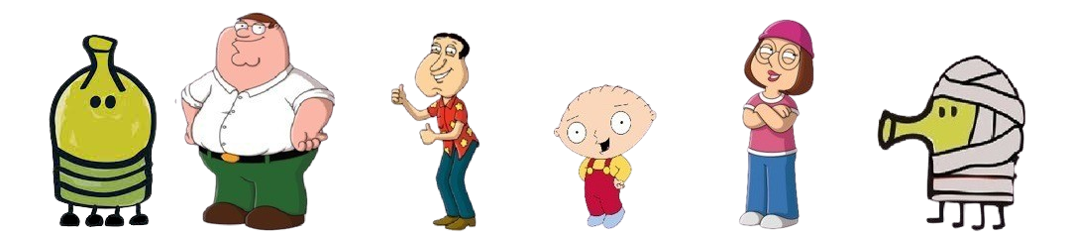
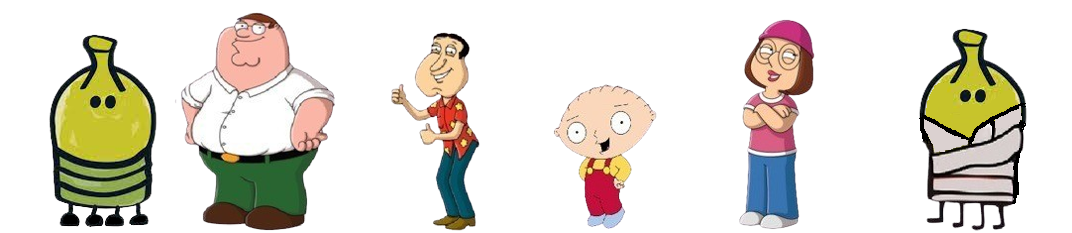
Added Pause/Play

diff --git a/Script/indexjs.js b/Script/indexjs.js
@@ -3,7 +3,10 @@ window.addEventListener('load', () => {
     const ctx = canvas.getContext('2d');
     const CANVAS_WIDTH = canvas.width = window.innerWidth;
     const CANVAS_HEIGHT = canvas.height = window.innerHeight;
-    var s=true;
+    var charChange=900;
+    var m =0;
+    var pause = false;
+    var color = "black";
     class Background{
         constructor(game){
             this.game = game;
@@ -15,6 +18,14 @@ window.addEventListener('load', () => {
         }
         update(){
             if(this.y > this.height){
+                if(game.scorept%2000 > 1000){
+                    canvas.style.backgroundColor = "#1E035E";
+                    color = "white";
+                }
+                else{
+                    canvas.style.backgroundColor = "rgb(142, 218, 250)";
+                    color = "black";
+                }
                 this.y = 0;
                 this.game.add_platforms(-this.height*2, -30-this.height);
                 this.game.change_difficulty();
@@ -24,10 +35,10 @@ window.addEventListener('load', () => {
                 }
             }
             else{
-                this.y += this.game.vy;
+                this.y += this.game.vy*0.6;
                 
                 if(this.game.vy>0){
-                    this.game.scorept += Math.floor(this.game.vy * 0.4);
+                    this.game.scorept += Math.floor(this.game.vy * 0.12);
                 }
             }
         }
@@ -36,7 +47,6 @@ window.addEventListener('load', () => {
             ctx.drawImage(this.image, this.x, this.y-this.height, this.width, this.height);
         }
     }
-    
     class Enemy{
         constructor(game){
             this.game = game;
@@ -56,7 +66,7 @@ window.addEventListener('load', () => {
         update(){
             if(this.x < 0 || this.x > this.game.width - this.width) this.vx *= -1 
             this.x += this.vx;
-            this.y += this.game.vy;
+            this.y += this.game.vy*0.1;
 
             if(this.y >= this.game.height + 2 * this.game.player.height){
                 this.audio.pause();
@@ -97,7 +107,7 @@ window.addEventListener('load', () => {
                 if(this.x < 0 || this.x > this.game.width - this.width) this.vx = -this.vx;
             }
             this.x += this.vx;
-            this.y += this.game.vy;
+            this.y += this.game.vy*0.6;
 
             if(this.y >= this.game.height + game.player.height*2){
                 this.markedForDeletion = true;
@@ -145,7 +155,6 @@ window.addEventListener('load', () => {
             this.max_vx = 5;
             this.bullets = [];
         }
-
         update(inputHandler){
             this.x +=this.vx;
             if(inputHandler.keys.includes('ArrowLeft')){
@@ -212,13 +221,17 @@ window.addEventListener('load', () => {
 
             this.bullets.forEach(bullet => bullet.update());
             this.bullets = this.bullets.filter(bullet => !bullet.markedForDeletion);
-
         }
 
         draw(context){
             this.bullets.forEach(bullet => bullet.draw(context))
-            // context.strokeRect(this.x+15, this.y, this.width-30, this.height);
-            context.drawImage(this.image, 0, 0, 173, 235, this.x, this.y, this.width, this.height);
+            // context.strokeRect(this.x+13, this.y, this.width-30, this.height);
+            if(game.scorept%charChange > charChange-2){
+                m=m+176;
+                charChange*=2;
+                if(m >= (176*6)) m=0;
+            }
+            context.drawImage(this.image, m, 0, 173, 235, this.x, this.y, this.width, this.height);
         }
 
         collision(){
@@ -293,8 +306,12 @@ window.addEventListener('load', () => {
                 if((e.key == 'ArrowLeft' || e.key == 'ArrowRight') && !this.keys.includes(e.key)){
                     this.keys.push(e.key);
                 }
-                if(e.key == 'Enter'){
-                    this.game.gameStart = true;
+                else if((e.key == 'Enter' || e.key == ' ') && game.gameOver){
+                    location.reload();
+                }
+                else if((e.key == 'Enter' || e.key == ' ')){
+                    this.game.gameStart = !this.game.gameStart;
+                    pause = true;
                 }
             });
 
@@ -353,12 +370,29 @@ window.addEventListener('load', () => {
         draw(context){
             this.background.draw(context);
 
-            if(!this.gameStart){
+            if(!this.gameStart && !pause){
                 context.font = "bold 30px Arial";
-                context.fillStyle = "black";
+                context.fillStyle = color;
                 context.textAlign = "center";
                 context.drawImage(this.introimage, 0, 0, innerWidth, innerHeight);
                 context.fillText("Press Enter to Start", this.width*0.5, this.height*0.5);
+            }
+            else if(!this.gameStart && pause){
+                context.font = "bold 50px Arial";
+                context.fillStyle = color;
+                context.textAlign = "center";
+                context.drawImage(this.introimage, 0, 0, innerWidth, innerHeight);
+                context.fillText("GAME PAUSED", this.width*0.5, this.height*0.5);
+                context.font = "bold 15px Arial";
+                context.fillText("Press Enter to play", this.width*0.5, this.height*0.5+20);
+
+                context.font = "bold 30px Arial";
+                context.fillStyle = color;
+                context.textAlign = "start";
+                context.fillText("Score: "+this.scorept, 20, 40);
+                context.font = "bold 30px Arial";
+                context.textAlign = "right";
+                context.fillText("Next Character at: "+charChange, canvas.width-20, 40);
             }
             else if(this.player.y> this.width || this.gameOver){
                 context.font = "bold 70px Arial";
@@ -366,8 +400,8 @@ window.addEventListener('load', () => {
                 context.textAlign = "center";
                 context.fillText("Your Score is "+this.scorept, this.width*0.5, this.height*0.5);
                 context.font = "bold 30px Arial";
-                context.fillStyle = "black";
-                context.fillText("Game End, Load to Restart", this.width*0.5, this.height*0.5+40);
+                context.fillStyle = color;
+                context.fillText("Game End, Press Enter to Restart", this.width*0.5, this.height*0.5+40);
             }
             else{
                 this.platforms.forEach(platform => {
@@ -381,9 +415,12 @@ window.addEventListener('load', () => {
                 });
 
                 context.font = "bold 30px Arial";
-                context.fillStyle = "black";
+                context.fillStyle = color;
                 context.textAlign = "start";
                 context.fillText("Score: "+this.scorept, 20, 40);
+                context.font = "bold 30px Arial";
+                context.textAlign = "right";
+                context.fillText("Next Character at: "+charChange, canvas.width-20, 40);
             }
         }
 
@@ -426,4 +463,29 @@ window.addEventListener('load', () => {
     }
     animate();
 });
+
+function points()
+{
+    var a=0;
+    var b=0;
+    
+    for(var n=0; n<50; n++){
+        
+        var st=document.getElementById("bgstars");
+        let circle=document.createElementNS("http://www.w3.org/2000/svg", "circle");
+
+        a=Math.floor(Math.random()*window.innerWidth);
+        b=Math.floor(Math.random()*window.innerHeight);
+        
+        circle.setAttribute("cx", a);
+        circle.setAttribute("cy", b);
+        circle.setAttribute("r",  1);
+        circle.setAttribute("fill", "white");
+        st.appendChild(circle);
+        
+    }
+    
+}
+
+setTimeout(points, 100);
 

diff --git a/index.html b/index.html
@@ -13,11 +13,12 @@
     <img src="Resources/Characters/p11m.png" alt="player1" id = "playerM">
     <img src="Resources/Characters/pf.png" alt="player1" id = "playerF">
     <img src="Resources/Backgrounds/BG1.png" alt="Background1" id="bg1">
+    <!-- <img src="Resources/Backgrounds/BG2.png" alt="Background1" id="bg2"> -->
     <img src="Resources/GeneralSprites/Gen1.png" alt="tiles" id ="tiles">
     <img src="Resources/Backgrounds/IntroDuction.png" alt="Intro Image" id = "intro">
     <img src="Resources/GeneralSprites/bullet.png" alt="Intro Image" id = "bullets">
+    <svg id="bgstars"></svg>
     <div id="copy">Copyrights &copy; Pranav&PrajjwalGames 2022</div>
-
     <script src="Script/indexjs.js"></script>
 </body>
 </html>

diff --git a/Styles/Styleindex.css b/Styles/Styleindex.css
@@ -15,3 +15,13 @@ img{
     top: 95vh;
     left: 39vw;
 }
+#bgstars{
+    width: 100%;
+    height: 100%; 
+    position: absolute;
+    top: 0;
+    left: 0;
+    opacity: 0.5;
+    z-index: 2;
+    overflow: hidden;
+}
